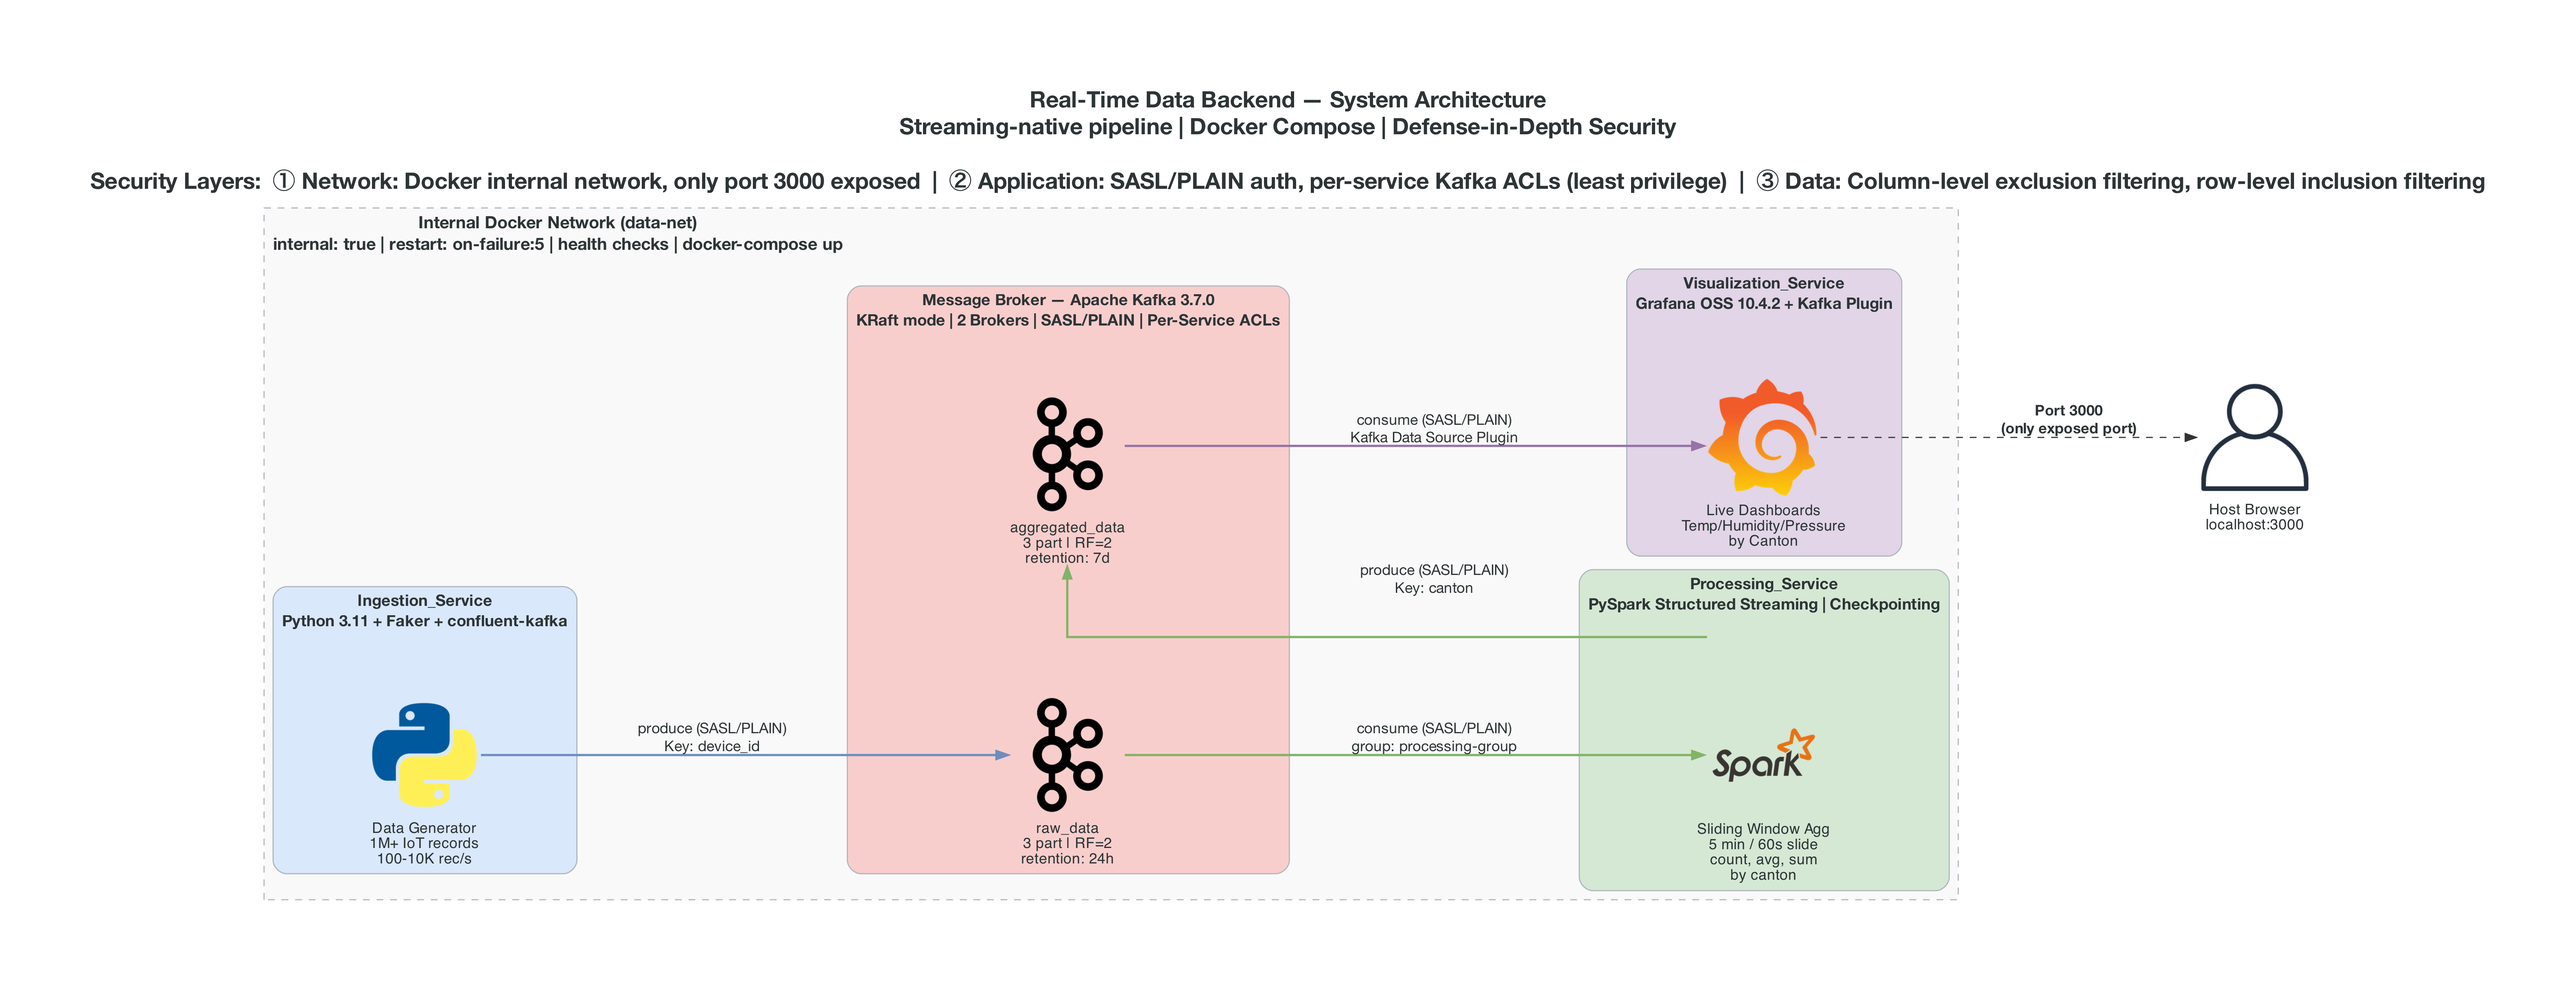
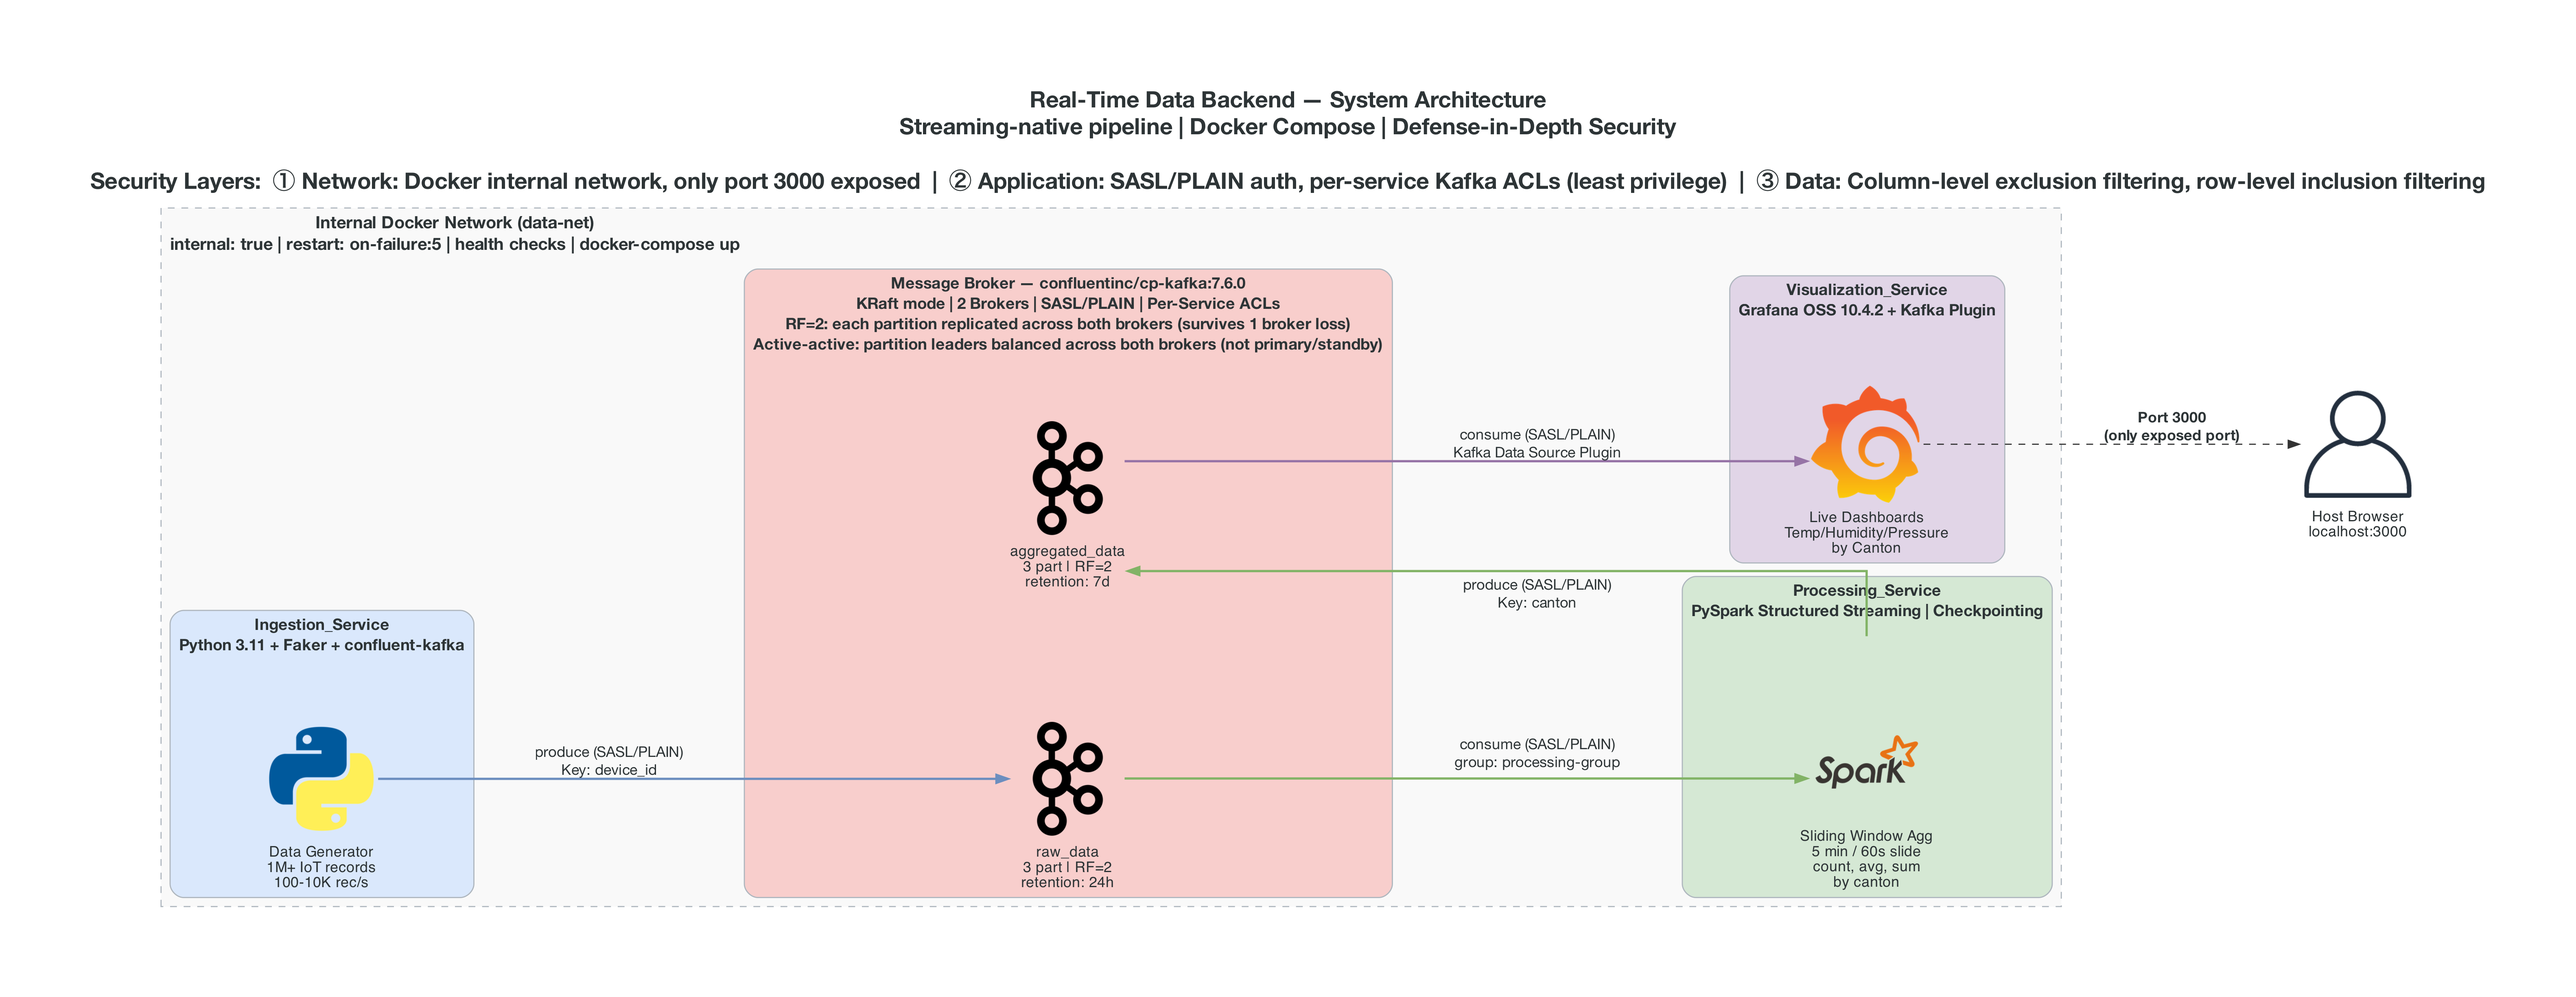
fix: idempotent acks=all producer; clarify active-devices, clustering, durability, plugin limits; correct and untrack diagram generator

diff --git a/ingestion_service/producer.py b/ingestion_service/producer.py
@@ -69,6 +69,14 @@ def create_producer() -> Producer:
         "sasl.mechanism": "PLAIN",
         "sasl.username": sasl_username,
         "sasl.password": sasl_password,
+        # Durability / delivery guarantees (made explicit rather than relying on
+        # library defaults). Idempotence gives effectively-once, in-order
+        # production: no duplicate records on retry and preserved per-partition
+        # ordering. Enabling it also pins acks=all, retries=INT32_MAX and
+        # max.in.flight<=5; acks=all is set explicitly here for clarity so a
+        # write is only acknowledged once all in-sync replicas have it.
+        "enable.idempotence": True,
+        "acks": "all",
     }
 
     logger.info(

diff --git a/README.md b/README.md
@@ -180,16 +180,41 @@ directly through the Kafka data source plugin and includes:
 - **Active devices** — a stat panel showing the fleet-wide distinct devices for
   the most recently completed window (see Processing_Service below). It reads
   `0` for the first few minutes after startup until the first window settles.
+  The value hovers a little below the 500-device fleet (e.g. 476–484) and
+  varies slightly between windows. This is expected for two reasons: (1) it
+  counts only the devices that actually reported within that window, and at the
+  default rate not every one of the 500 is guaranteed to appear in a given
+  5-minute window; and (2) the count is computed with `approx_count_distinct`
+  (a HyperLogLog estimate — see Processing_Service), which trades a few percent
+  of accuracy for streaming efficiency. It is not a hard-coded "realism" range.
 - **Total records ingested** — a stat panel showing the cumulative count of
   records processed, sourced from the `total_records_ingested` field.
 - **Records per window** — a time-series panel of the per-window record count
   (`record_count`), showing throughput as each window is emitted.
 
-Note that the Kafka data source is **live-tail only**: it streams new messages
-into a short rolling buffer and cannot query historical ranges. Panels
-therefore show recent live data that fills forward while the dashboard is open,
-rather than a backfilled history. This is why the fleet-wide total is finalized
-in the streaming layer rather than aggregated in Grafana.
+#### Kafka data source plugin — limitations
+
+The `hamedkarbasi93-kafka-datasource` community plugin is a thin live consumer,
+not a query engine, which shapes what the dashboard can and cannot do:
+
+- **Live-tail only, no history.** It streams new messages into a short rolling
+  buffer and cannot query historical ranges. Panels show recent live data that
+  fills forward while the dashboard is open; widening the Grafana time range
+  does **not** backfill older data, because none is stored on the Grafana side.
+  (The data itself is retained in Kafka — this is a limitation of the plugin,
+  not the pipeline.)
+- **No server-side filtering or grouping.** The plugin cannot filter by field or
+  group by a key. That is why the per-canton split is done client-side with a
+  `partitionByValues` transformation rather than a query.
+- **No aggregation across the stream.** It cannot compute windowed roll-ups.
+  This is why fleet-wide figures like `active_devices` are finalized in the
+  Processing_Service (streaming layer) and emitted as fields, rather than being
+  aggregated in Grafana.
+
+For true historical analysis or ad-hoc queries, the aggregated results would
+need to be written to a time-series store (e.g. InfluxDB or TimescaleDB) and
+Grafana pointed at that instead — intentionally out of scope here, since the
+project is deliberately database-free with Kafka as the only store.
 
 ## Microservices
 
@@ -206,6 +231,12 @@ in the streaming layer rather than aggregated in Grafana.
   This keeps the aggregated averages smooth and realistic instead of spiking
   across the full range. Readings are stateless (a pure function of the random
   state), so a fixed seed reproduces identical output.
+- **Delivery guarantees:** The producer runs with **`enable.idempotence=true`**
+  and **`acks=all`**, so writes are acknowledged only after all in-sync replicas
+  have the record, and retries never introduce duplicates or reorder messages
+  within a partition (effectively-once, in-order production). This satisfies the
+  at-least-once requirement and strengthens it toward exactly-once at the
+  produce step.
 - **Technology:** Python 3.11, `confluent-kafka`, `faker`, `python-json-logger`.
 - **Interface:** Produces JSON to `raw_data` over the Kafka protocol with
   SASL/PLAIN auth; keyed by `device_id`. No host-exposed ports (internal only).
@@ -216,6 +247,22 @@ in the streaming layer rather than aggregated in Grafana.
   `aggregated_data`; provides durable, ordered, replicated delivery.
 - **Technology:** `confluentinc/cp-kafka:7.6.0` in KRaft mode (no ZooKeeper),
   two broker instances, SASL/PLAIN authentication, StandardAuthorizer ACLs.
+- **Clustering:** The two brokers are **active-active**, not primary/standby.
+  Each topic's 3 partitions are spread across both brokers, and with
+  replication factor 2 every partition has a replica on the other broker. Both
+  brokers serve traffic simultaneously (as partition leaders); if one fails,
+  its partitions' replicas on the surviving broker are promoted, so there is no
+  data loss and no single owner of a topic.
+- **Durability vs. availability tradeoff:** Producers use `acks=all`, so under
+  normal operation (both brokers up) a record is on both replicas before it is
+  acknowledged. `min.insync.replicas` is deliberately set to **1** rather than
+  2: with only two brokers, requiring 2 in-sync replicas would halt all writes
+  whenever a single broker is down, which conflicts with the "remaining
+  services keep running" availability goal. Setting it to 1 keeps the surviving
+  broker writable during a single-broker outage, at the cost of a small window
+  where a just-acknowledged write might not yet be replicated. Fully satisfying
+  *both* "no data loss on single-broker failure" and "stay writable during
+  single-broker failure" would require a third broker (RF=3, `min.insync=2`).
 - **Interface:** Kafka protocol on internal port 9092 (broker) and 9093
   (controller). Not exposed to the host. Topics and ACLs are created by the
   `kafka-init` job.
